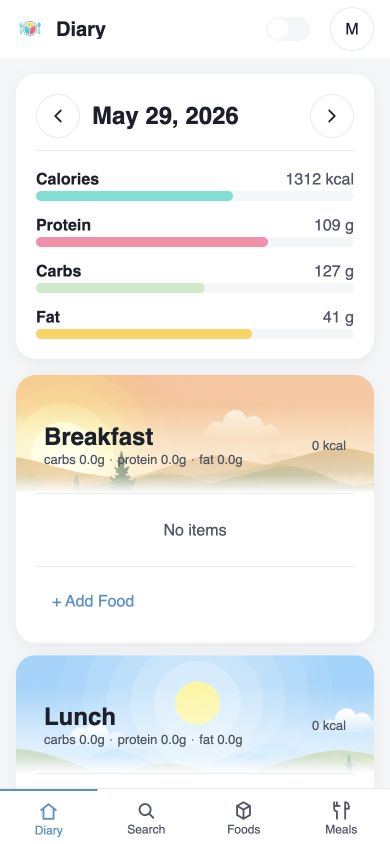
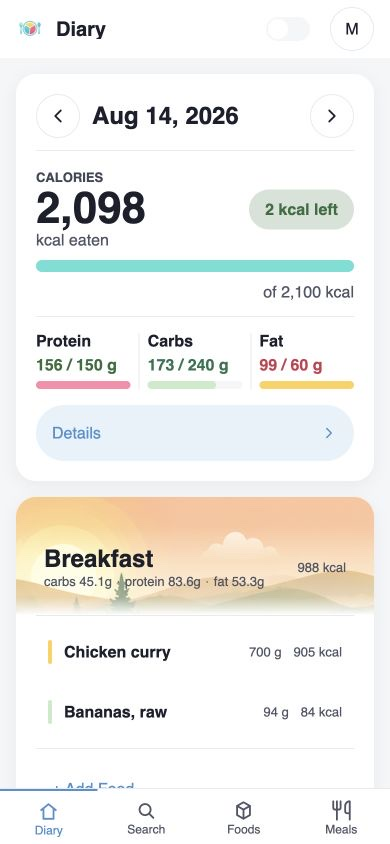
New screenshots

diff --git a/README.md b/README.md
@@ -10,6 +10,14 @@ The app is intentionally simple: search or create foods, log what was eaten, sna
 | :---: | :---: | :---: | :---: |
 | <img src="docs/images/readme/mobile-diary.jpg" alt="CalCo mobile diary showing daily calorie and macro progress" width="240"> | <img src="docs/images/readme/mobile-food-search.jpg" alt="CalCo mobile food catalog search results" width="240"> | <img src="docs/images/readme/mobile-food-nutrition.jpg" alt="CalCo mobile food logging form with calculated nutrition" width="240"> | <img src="docs/images/readme/mobile-meal-builder.jpg" alt="CalCo mobile reusable meal builder" width="240"> |
 
+## Desktop Showcase
+
+The diary and food search stay visible together on wider screens.
+
+<p align="center">
+  <img src="docs/images/readme/desktop-diary-search.jpg" alt="CalCo desktop workspace showing the daily diary and food search side by side" width="1200">
+</p>
+
 ## Stack
 
 - Backend: Rust, axum, sqlx, PostgreSQL

diff --git a/docs/frontend.md b/docs/frontend.md
@@ -542,6 +542,18 @@ Search, diary, and logging surfaces should prioritize compact, scannable
 controls and rows. Avoid oversized cards, large text that truncates early, or
 layouts that only work comfortably on desktop widths.
 
+### Responsive Design Rule
+
+Keep a consistent, fluid default and introduce a breakpoint only when the
+information architecture or interaction model must materially change.
+
+Prefer shared spacing, control sizes, wrapping, and visible content across
+viewport sizes. Use responsive branches for structural changes such as pane
+count, navigation mode, or fields that must stack to remain usable. Do not use
+device size as a proxy for input capabilities such as touch, hover, or pointer
+precision; handle those with the corresponding browser capability where
+needed.
+
 ### Repeat Logging UI
 
 - Empty meal-slot cards should show a compact repeat action when the backend
